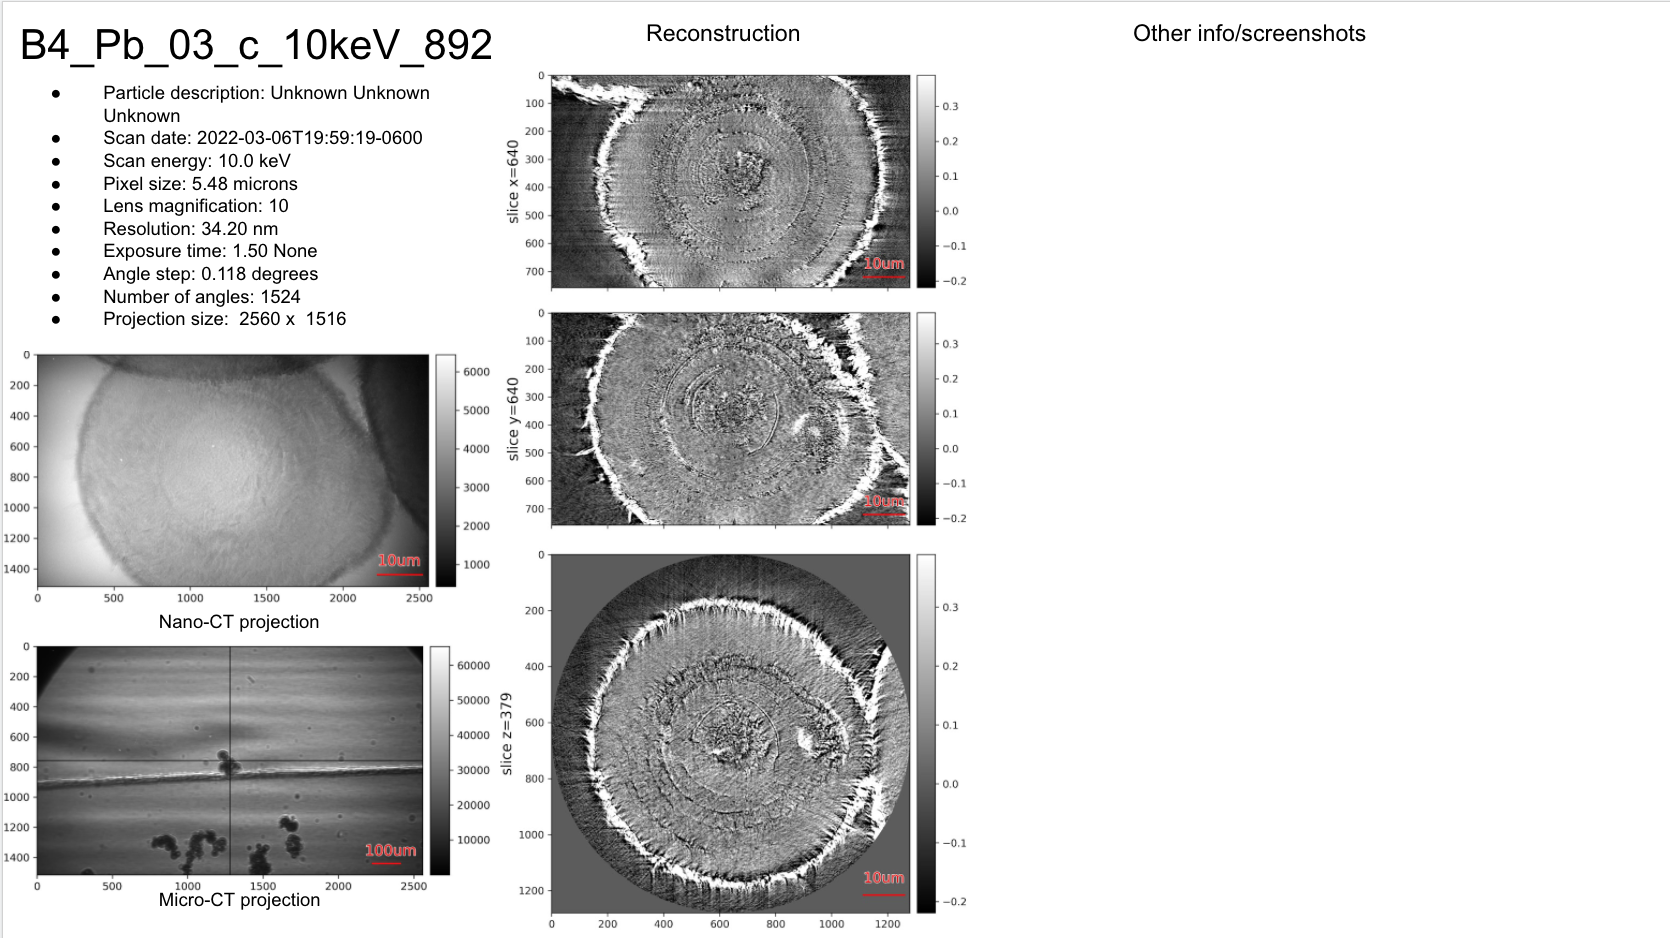
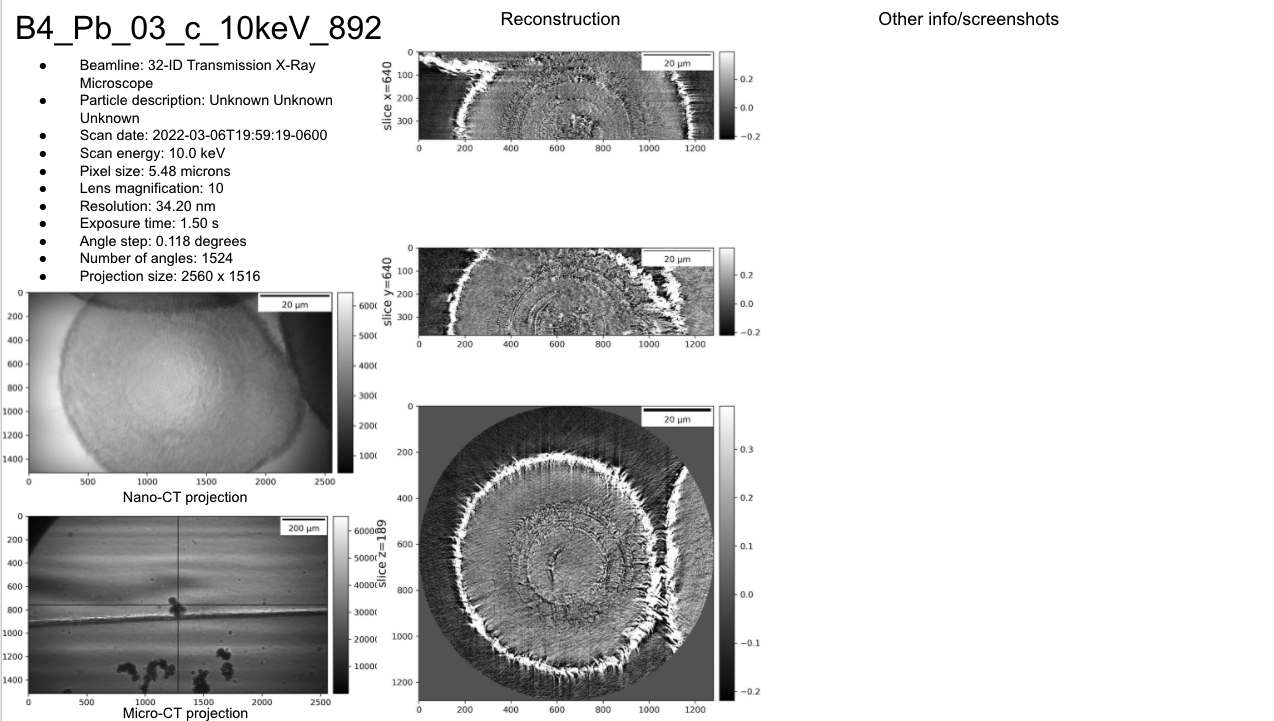
doc update

Changed region(s): [[0.0, 0.0, 0.5816, 1.0], [0.6735, 0.0, 0.8265, 0.061], [0.1224, 0.5492, 0.1531, 0.5798]]

diff --git a/tomolog_cli/plots.py b/tomolog_cli/plots.py
@@ -7,8 +7,19 @@ from mpl_toolkits.axes_grid1 import make_axes_locatable
 
 from tomolog_cli import utils
 
+
 def plot_projection(proj, fname, resolution):
-    '''Plot the first projection with a scalebar and colorbar, and save it to FILENAME_PROJ
+    '''Plot the a projection with a scalebar and colorbar and save the figure as fname
+
+    Parameters
+    ----------
+    proj : ndarray
+        2D projection
+    fname : str
+        File name where the plot will be saved
+    resolution : float
+        Pixel size used to generate the scalebar. Units is specified in um by
+        setting the ScaleBar units="um"
     '''
 
     # auto-adjust colorbar values according to a histogram
@@ -34,9 +45,24 @@ def plot_projection(proj, fname, resolution):
     plt.close(fig)
 
 
-
 def plot_recon(args, dims, recon, fname, resolution):
-    '''Plot orthoslices with scalebars and colorbars, and save the figure as FILENAME_RECON
+    '''Plot orthoslices with scalebars and colorbars and save the figure as fname
+
+    Parameters
+    ----------
+    args.min : float
+        Minimum threshold value for reconstruction visualization
+    args.max : float
+        Maximum threshold value for reconstruction visualization
+    dims : list
+        list containing the image width and height
+    recon : list
+        list contaiing 3 othrogonal slices through the sample
+    fname : str
+        File name where the plot will be saved
+    resolution : float
+        Pixel size used to generate the scalebar. Units is specified in um by
+        setting the ScaleBar units="um"
     '''
     
     width         = int(dims[2])
@@ -51,10 +77,6 @@ def plot_recon(args, dims, recon, fname, resolution):
     if args.min==args.max:
         args.min, args.max = utils.find_min_max(np.concatenate(recon), args.scale)
 
-    # # plot 3 slices in a column
-    # w = width//binning
-    # h = height//binning
-
     sl = [args.idx,args.idy,args.idz]#params['id'+slices[k]]
     for k in range(3):
         recon[k][recon[k] > args.max] = args.max
@@ -67,7 +89,6 @@ def plot_recon(args, dims, recon, fname, resolution):
         divider = make_axes_locatable(ax)
         cax = divider.append_axes("right", size="5%", pad=0.1)
         plt.colorbar(im, cax=cax)
-        #sl = params['id'+slices[k]]
         ax.set_ylabel(f'slice {slices[k]}={sl[k]}', fontsize=14)
 
     # plt.show()

diff --git a/tomolog_cli/reads.py b/tomolog_cli/reads.py
@@ -13,7 +13,17 @@ __all__ = ['read_scan_info', 'read_raw', 'read_recon']
 
 
 def read_scan_info(args):
-    '''Read acquistion parameters
+    '''Read acquistion parameters from an hdf5 file
+
+    Parameters
+    ----------
+    args.file_name : string
+        The raw data tomography hdf file name
+
+    Returns
+    -------
+    meta
+        Dictionary containing all hdf file stored experiment meta data
     '''
     _, meta = utils.read_hdf_meta(args.file_name, add_shape=True)
 
@@ -22,6 +32,20 @@ def read_scan_info(args):
 
 def read_raw(args):
     '''Read raw data from an hdf5 file
+
+    Parameters
+    ----------
+    args.file_name : string
+        The raw data tomography hdf file name
+
+    Returns
+    -------
+    proj
+        list of ndarray(s) containing the first data set projection of 
+        each data set stored in the hdf file. Usually proj contains only
+        one image but in some nano CT measurement it may also contain 
+        a micro CT measurement of the same sample
+
     '''
     proj = []
     with h5py.File(args.file_name) as fid:
@@ -45,6 +69,26 @@ def read_raw(args):
 
 def read_recon(args, meta):
     '''Read reconstructed ortho-slices
+
+    Parameters
+    ----------
+    args.file_name : string
+        The raw data tomography hdf file name
+    args.rec_type
+        Prefix of the recon folder choices: recgpu,rec
+    args.idx
+        Id of x slice for reconstruction visualization
+    args.idy
+        Id of y slice for reconstruction visualization
+    args.idz
+        Id of z slice for reconstruction visualization
+    meta
+        Dictionary containing all hdf file stored experiment meta data    
+
+    Returns
+    -------
+    meta
+        Dictionary containing all hdf file stored experiment meta data
     '''
 
     data_size     = 'exchange_data'

diff --git a/docs/conf.py b/docs/conf.py
@@ -328,22 +328,24 @@ class Mock(object):
         return Mock()
 
 MOCK_MODULES = ['h5py',
+                'uuid',
                 'numpy',
+                'epics',
+                'dotenv',
                 'dropbox',
+                'tifffile',
+                'mpl_toolkits',
+                'mpl_toolkits.axes_grid1',
                 'matplotlib',
                 'matplotlib.pyplot',
+                'matplotlib-scalebar',
+                'matplotlib_scalebar',
                 'matplotlib.patheffects',
-                'uuid',
-                'mpl_toolkits',
+                'matplotlib_scalebar.scalebar',
                 'google',
                 'googleapiclient',
                 'google.oauth2',
-                'mpl_toolkits.axes_grid1',
-                'googleapiclient.discovery',
-                'tifffile',
-                'epics',
-                'python-dotenv',
-                'matplotlib-scalebar',
+                'googleapiclient.discovery',                
                 ]
 
 for mod_name in MOCK_MODULES:

diff --git a/tomolog_cli/tomolog.py b/tomolog_cli/tomolog.py
@@ -25,6 +25,10 @@ DROPBOX_TOKEN   = os.path.join(str(pathlib.Path.home()), 'tokens', 'dropbox_toke
 GOOGLE_TOKEN    = os.path.join(str(pathlib.Path.home()), 'tokens', 'google_token.json')
 
 class TomoLog():
+    '''
+    Class to publish experiment meta data, tomography projection and reconstruction on a 
+    google slide document.
+    '''
     def __init__(self):
 
         self.snippets  = auth.google(GOOGLE_TOKEN)
@@ -79,9 +83,6 @@ class TomoLog():
         full_file_name = meta[self.full_file_name_key][0]
         self.snippets.create_textbox_with_text(presentation_id, page_id, os.path.basename(
             full_file_name)[:-3], 50, 400, 0, 0, 18)
-        dims          = meta[self.data_size_key][0].replace("(", "").replace(")", "").split(',')
-        width         = int(dims[2])
-        height        = int(dims[1])
 
         if meta[self.exposure_time_key][1] == None:
             log.warning('Exposure time units are missing assuming (s)')

diff --git a/docs/source/usage.rst b/docs/source/usage.rst
@@ -5,3 +5,49 @@ Usage
 To publish experiment log information to a google page::
 
    $ tomolog run --file-name /local/data/2022-03/Peters/B4_Pb_03_c_10keV_892.h5 --presentation-url https://docs.google.com/presentation/d/128c8JYiJ5EjbQhAtegYYetwDUVZILQjZ5fUIoWuR_aI/edit#slide=id.p
+
+
+For help::
+
+   $ tomolog run -h
+   usage: tomolog run [-h] [--file-name PATH] [--PV-prefix PV_PREFIX] [--beamline {None,2-bm,7-bm,32-id}] [--idx IDX] [--idy IDY] [--idz IDZ] [--max MAX] [--min MIN]
+                      [--presentation-url PRESENTATION_URL] [--rec-type {recgpu,rec}] [--config FILE] [--config-update] [--double-fov] [--logs-home FILE] [--token-home FILE]
+                      [--verbose]
+
+   optional arguments:
+     -h, --help            show this help message and exit
+     --file-name PATH      Name of the hdf file (default: .)
+     --PV-prefix PV_PREFIX
+                           PV prefix for camera (default: 32idcSP1:)
+     --beamline {None,2-bm,7-bm,32-id}
+                           Customized the goodle slide to the beamline selected (default: 32-id)
+     --idx IDX             Id of x slice for reconstruction visualization (default: -1)
+     --idy IDY             Id of y slice for reconstruction visualization (default: -1)
+     --idz IDZ             Id of z slice for reconstruction visualization (default: -1)
+     --max MAX             Maximum threshold value for reconstruction visualization (default: 0.0)
+     --min MIN             Minimum threshold value for reconstruction visualization (default: 0.0)
+     --presentation-url PRESENTATION_URL
+                           Google presention url (default: None)
+     --rec-type {recgpu,rec}
+                           Specify the prefix of the recon folder (default: recgpu)
+     --config FILE         File name of configuration file (default: /home/beams/FAST/logs/tomolog.conf)
+     --config-update       When set, the content of the config file is updated using the current params values (default: False)
+     --double-fov          Set to true for 0-360 data sets (default: False)
+     --logs-home FILE      Log file directory (default: /home/beams/FAST/logs)
+     --token-home FILE     Token file directory (default: /home/beams/FAST/tokens)
+     --verbose             Verbose output (default: False)
+
+For other options::
+
+   $ tomolog -h
+   usage: tomolog [-h] [--config FILE]  ...
+
+   optional arguments:
+     -h, --help     show this help message and exit
+     --config FILE  File name of configuration file
+
+   Commands:
+     
+       init         Create configuration file
+       run          Run data logging to google slides
+       status       Show the tomolog status

diff --git a/docs/source/install.rst b/docs/source/install.rst
@@ -27,5 +27,5 @@ and install tomolog
 Requirements
 ============
 
-Please install all the packases listed in `requirements file <https://github.com/nikitinvv/tomolog-cli/blob/main/env/requirements.txt>`_. 
+Please install all the packases listed in `requirements file <https://github.com/nikitinvv/tomolog-cli/blob/main/envs/requirements.txt>`_. 
 

diff --git a/docs/index.rst b/docs/index.rst
@@ -2,7 +2,7 @@
 tomolog-cli
 ===========
 
-**tomolog-cli** is a command-line-interface for logging experiment data in a Google slides
+**tomolog-cli** is a command-line-interface for publishing tomography experiment data and meta data in a stack of Google slides
 
 .. image:: source/img/slide_00.png
    :width: 720px
